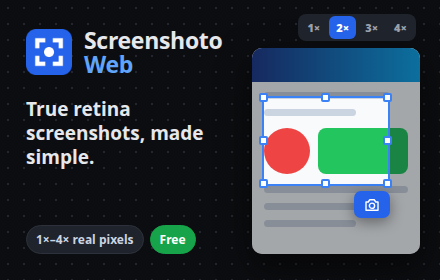
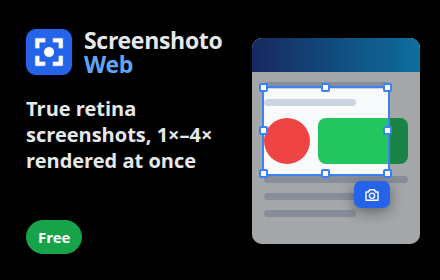
Add store screenshots and refresh the promo tile
- Screenshots 1–5 at 1280×800, 24-bit (3 and 4 scaled down from 3×,
  alpha removed where present)
- Promo tile: solid black background, no scale switch, tagline
  "True retina screenshots, 1×–4× rendered at once", larger text and
  Free badge

diff --git a/store/materials/promo/small-promo-tile.html b/store/materials/promo/small-promo-tile.html
@@ -8,20 +8,20 @@
   html, body { width: 440px; height: 280px; overflow: hidden; }
   body {
     font-family: system-ui, -apple-system, "Segoe UI", Roboto, sans-serif; color: #e6e8ec;
-    background: #0c0d10 radial-gradient(circle, #23262e 1px, transparent 1px) 0 0 / 16px 16px;
+    background: #000;
     position: relative;
   }
   .brand { position: absolute; left: 26px; top: 28px; display: flex; align-items: center; gap: 12px; }
   .brand img { width: 46px; height: 46px; }
   .name { font-size: 23px; font-weight: 750; letter-spacing: -.3px; line-height: 1.05; }
   .name span { color: #60a5fa; }
-  .tagline { position: absolute; left: 26px; top: 98px; font-size: 19px; font-weight: 650; line-height: 1.25; width: 196px; }
+  .tagline { position: absolute; left: 26px; top: 96px; font-size: 20px; font-weight: 650; line-height: 1.3; width: 214px; }
   .tags { position: absolute; left: 26px; bottom: 26px; display: flex; gap: 6px; }
-  .tags b { font-size: 12px; font-weight: 650; padding: 5px 9px; border-radius: 99px; background: #1f232b; color: #cbd5e1; border: 1px solid #2c313b; }
+  .tags b { font-size: 15px; font-weight: 650; padding: 6px 11px; border-radius: 99px; background: #1f232b; color: #cbd5e1; border: 1px solid #2c313b; }
   .tags b.free { background: #16a34a; border-color: #16a34a; color: #fff; }
 
   /* mock page with a region being adjusted */
-  .page { position: absolute; right: 20px; top: 48px; width: 168px; height: 206px; border-radius: 10px; background: #f8fafc; overflow: hidden; box-shadow: 0 12px 34px rgba(0,0,0,.55); }
+  .page { position: absolute; right: 20px; top: 38px; width: 168px; height: 206px; border-radius: 10px; background: #f8fafc; overflow: hidden; box-shadow: 0 12px 34px rgba(0,0,0,.55); }
   .page .hd { height: 34px; background: linear-gradient(90deg, #1e3a8a, #0ea5e9); }
   .page .ln { height: 7px; border-radius: 4px; background: #cbd5e1; margin: 10px 12px 0; }
   .page .ln.s { width: 55%; } .page .ln.m { width: 75%; }
@@ -33,15 +33,12 @@
   .sel i { position: absolute; width: 9px; height: 9px; background: #fff; border: 2px solid #3b82f6; border-radius: 2px; margin: -5.5px 0 0 -5.5px; }
   .cam { position: absolute; right: -2px; top: calc(100% + 7px); width: 36px; height: 27px; border-radius: 7px; background: #2563eb; display: grid; place-items: center; box-shadow: 0 4px 14px rgba(0,0,0,.4); }
   .cam svg { width: 18px; height: 18px; fill: none; stroke: #fff; stroke-width: 1.9; stroke-linecap: round; stroke-linejoin: round; }
-  .scales { position: absolute; right: 24px; top: 14px; display: flex; gap: 2px; padding: 2px; background: #1f232b; border-radius: 8px; font-size: 11px; font-weight: 700; }
-  .scales b { padding: 4px 7px; border-radius: 6px; color: #9aa1ad; }
-  .scales b.on { background: #2563eb; color: #fff; }
 </style>
 </head>
 <body>
   <div class="brand"><img src="../../../public/icons/128.png" alt=""><div class="name">Screenshoto<br><span>Web</span></div></div>
-  <div class="tagline">True retina screenshots, made simple.</div>
-  <div class="tags"><b>1×–4× real pixels</b><b class="free">Free</b></div>
+  <div class="tagline">True retina screenshots, 1×–4× rendered at once</div>
+  <div class="tags"><b class="free">Free</b></div>
 
   <div class="page"><div class="hd"></div><div class="ln m"></div><div class="ln s"></div><div class="art"><i></i><i></i></div><div class="ln"></div><div class="ln m"></div><div class="ln s"></div>
   <div class="sel">
@@ -50,6 +47,5 @@
       <div class="cam"><svg viewBox="0 0 24 24"><path d="M4 8h3l2-3h6l2 3h3v11H4z"/><circle cx="12" cy="13" r="3.5"/></svg></div>
     </div>
   </div>
-  <div class="scales"><b>1×</b><b class="on">2×</b><b>3×</b><b>4×</b></div>
 </body>
 </html>

diff --git a/store/chrome-web-store-listing.md b/store/chrome-web-store-listing.md
@@ -11,7 +11,7 @@ tab by tab, plus the publishing steps. English only: the extension's UI is Engli
 | `privacy-policy.md` | privacy policy to link from the Privacy tab |
 | `materials/store-icon/icon-128.png` | store icon (96 px artwork, 16 px transparent padding) |
 | `materials/promo/small-promo-tile.png` | small promo tile 440×280, 24-bit; source `small-promo-tile.html` |
-| `materials/screenshots/` | **empty — screenshots are made by hand**, see section 1 |
+| `materials/screenshots/1-5.png` | screenshots, 1280×800, 24-bit (made by hand; see section 1) |
 | `render-graphics.mjs` | re-renders the promo tile and store icon: `node store/render-graphics.mjs` |
 | `screenshoto-web-<version>.zip` | the upload package (git-ignored): `npm run package:store` |
 
@@ -109,7 +109,7 @@ GOOD TO KNOW
 | Asset | Size | Status |
 |---|---|---|
 | Store icon | 128×128 PNG | ready: `store/materials/store-icon/icon-128.png` |
-| Screenshots | 1280×800 (or 640×400), 1–5, PNG/JPEG **without alpha** | **to do by hand** → `store/materials/screenshots/1.png` … |
+| Screenshots | 1280×800 (or 640×400), 1–5, PNG/JPEG **without alpha** | ready: `store/materials/screenshots/1-5.png` (24-bit, no alpha) |
 | Small promo tile | 440×280 | ready: `store/materials/promo/small-promo-tile.png` |
 | Marquee promo tile | 1400×560 | optional — skip; only used if Google features the extension |
 
